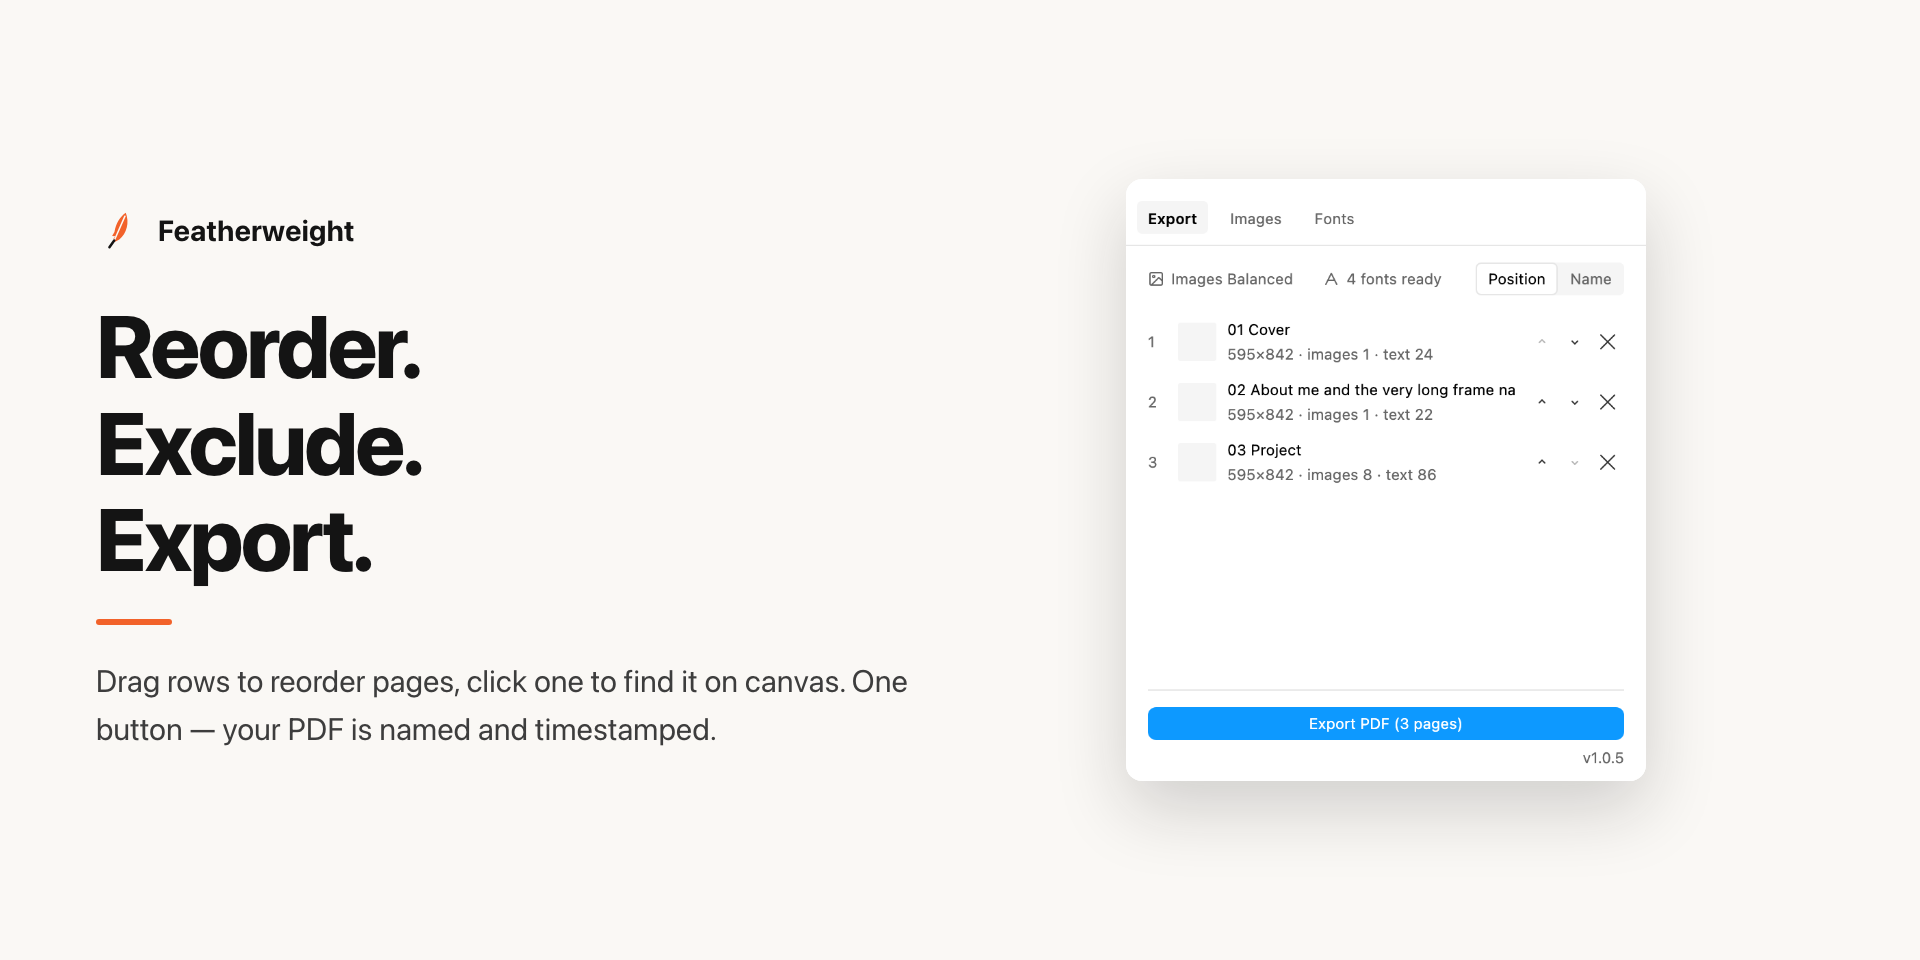
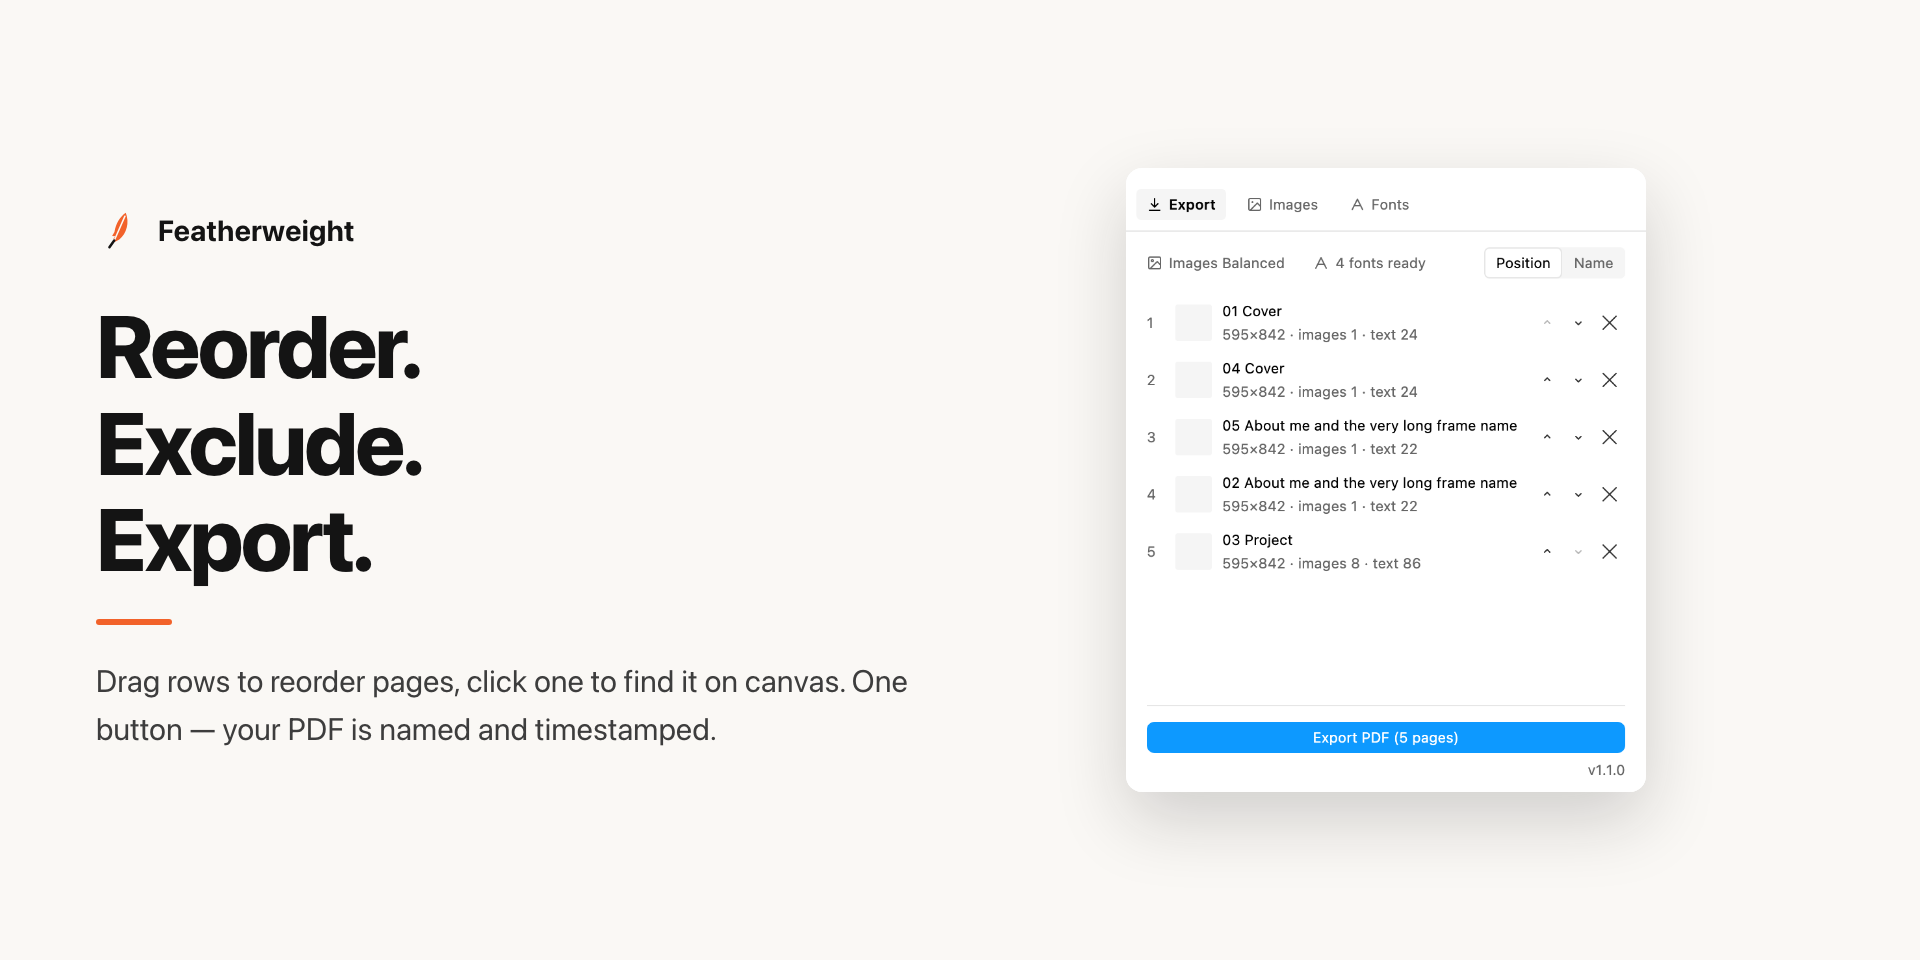
chore(brand): 커버·미디어를 1.1 로 갱신
커버에 FIT TO A TARGET SIZE 를 NEW 배지와 함께 세 번째 축으로 넣었다.
m5 는 프리셋 소개에서 목표 용량으로 바꿨다 — "Name a size. It hits it."
UI 캡처는 아이콘과 v1.1.0 표기가 들어가야 해서 전부 다시 찍었다.

m3 에 버전 문자열이 박혀 있어 릴리즈마다 손이 간다. UI 캡처도 우하단에 버전이
찍히므로 재사용하면 안 된다 — RELEASE.md 에 적어 뒀다.

캡처 원본(docs/brand/src/ui-*.png)은 릴리즈마다 다시 찍는 중간 산출물이라
계속 추적하지 않는다.

diff --git a/docs/brand/src/cover.html b/docs/brand/src/cover.html
@@ -37,7 +37,7 @@
       <div style="font-size:26px;color:var(--mute);margin-top:24px">A 12-page portfolio — images compressed, text embedded, same look</div>
     </div>
 
-    <div style="flex:0 0 auto;display:flex;flex-direction:column;gap:34px;padding-left:64px;border-left:2px solid var(--line);min-width:620px">
+    <div style="flex:0 0 auto;display:flex;flex-direction:column;gap:26px;padding-left:64px;border-left:2px solid var(--line);min-width:620px">
       <div>
         <div style="font-size:30px;font-weight:800;letter-spacing:0.06em;color:var(--ink)">REAL FONTS, NOT OUTLINES</div>
         <div style="font-size:27px;color:var(--mute);margin-top:9px;line-height:1.4">Text stays selectable, searchable and ATS-ready</div>
@@ -45,6 +45,13 @@
       <div>
         <div style="font-size:30px;font-weight:800;letter-spacing:0.06em;color:var(--ink)">SMART IMAGE COMPRESSION</div>
         <div style="font-size:27px;color:var(--mute);margin-top:9px;line-height:1.4">Downscaled to the size you actually see — logos untouched</div>
+      </div>
+      <div>
+        <div style="display:flex;align-items:center;gap:14px">
+          <div style="font-size:30px;font-weight:800;letter-spacing:0.06em;color:var(--ink)">FIT TO A TARGET SIZE</div>
+          <div style="font-size:19px;font-weight:800;letter-spacing:0.08em;color:#fff;background:var(--orange);border-radius:6px;padding:4px 10px">NEW</div>
+        </div>
+        <div style="font-size:27px;color:var(--mute);margin-top:9px;line-height:1.4">Say &ldquo;under 5 MB&rdquo; — it finds the best quality that fits</div>
       </div>
       <div style="background:#FDEEE6;border-radius:14px;padding:22px 26px">
         <div style="font-size:30px;font-weight:800;letter-spacing:0.06em;color:var(--orange)">FREE FOREVER · OPEN SOURCE</div>

diff --git a/docs/brand/src/m5.html b/docs/brand/src/m5.html
@@ -11,9 +11,9 @@
 
 
 <div style="font-size:29px;font-weight:700;color:var(--ink)">Featherweight</div></div>
-    <div style="font-size:88px;font-weight:800;line-height:1.1;letter-spacing:-0.03em;color:var(--ink)">Image compression,<br>one preset away.</div>
+    <div style="font-size:88px;font-weight:800;line-height:1.1;letter-spacing:-0.03em;color:var(--ink)">Name a size.<br>It hits it.</div>
     <div style="width:76px;height:6px;background:var(--orange);border-radius:3px;margin:32px 0"></div>
-    <div style="font-size:31px;line-height:1.55;color:var(--ink-2)">Sharp, Balanced or Smallest — images are downscaled to their displayed size. Logos and small images pass through untouched.</div>
+    <div style="font-size:31px;line-height:1.55;color:var(--ink-2)">Set a target — 5 MB for that upload limit — and Featherweight finds the best image quality that still fits. Or pick Sharp, Balanced or Smallest yourself.</div>
   </div>
   <div style="flex:0 0 auto;width:560px;display:flex;justify-content:center">
     <div style="width:520px;border-radius:16px;overflow:hidden;box-shadow:0 28px 70px rgba(20,20,20,.18);background:#fff">

diff --git a/docs/brand/src/m3.html b/docs/brand/src/m3.html
@@ -5,7 +5,7 @@
       <div style="font-size:26px;font-weight:800;letter-spacing:0.16em;color:var(--orange)">FEATHERWEIGHT</div>
       <div style="font-size:24px;color:#9B9B9B;margin-top:8px;letter-spacing:0.06em">PDF EXPORT FOR FIGMA</div>
     </div>
-    <div style="font-size:23px;color:#7C7C7C">v1.0.5 · MIT</div>
+    <div style="font-size:23px;color:#7C7C7C">v1.1.0 · MIT</div>
   </div>
   <div>
     <div style="font-size:132px;font-weight:800;line-height:1.05;letter-spacing:-0.035em;color:#fff">
